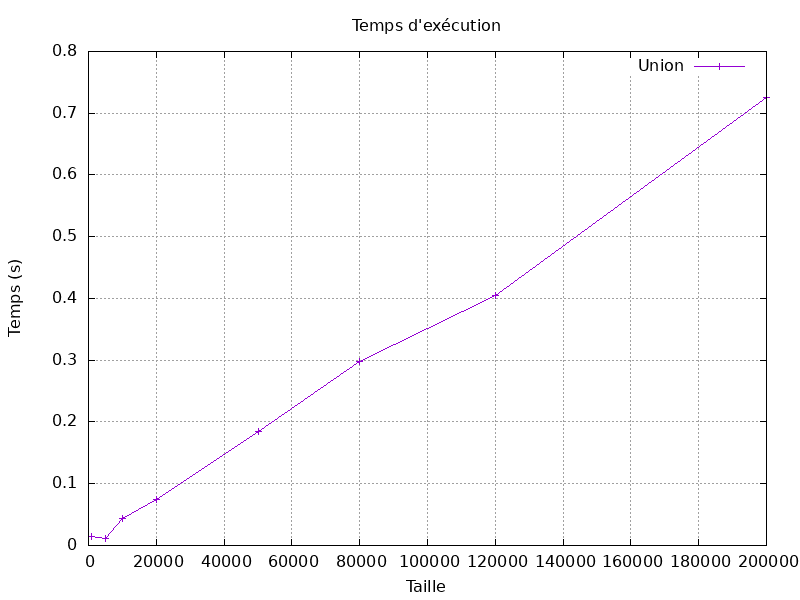
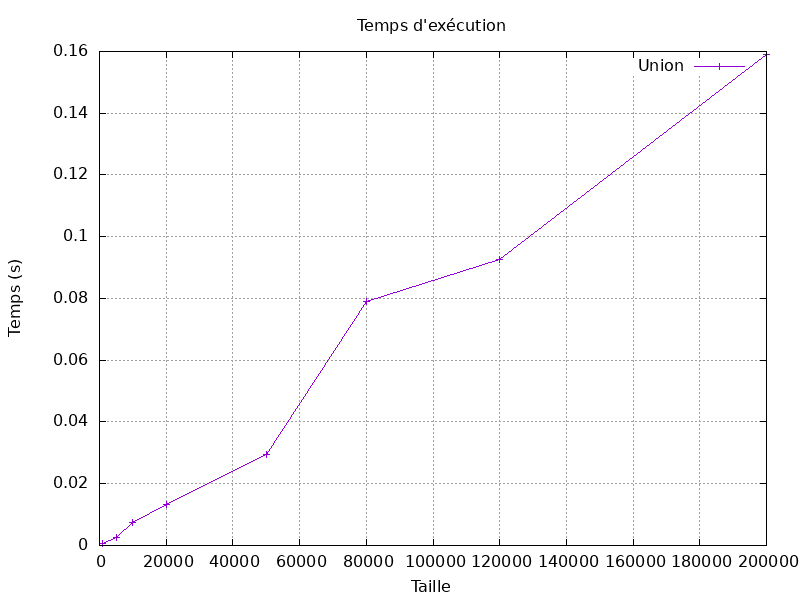
commit_

diff --git a/sources/tasArbre.c b/sources/tasArbre.c
@@ -30,13 +30,10 @@ Clef128* copy(Clef128* clef)
 
 TasArbre* creerNoeud(Clef128* clef)
 {
-    TasArbre* noeud = (TasArbre*)malloc(sizeof(TasArbre));
-    noeud->clef = clef;
-    noeud->fd = NULL;
-    noeud->fg = NULL;
-    noeud->parent = NULL;
-    noeud->hauteur = 1;
-    noeud->noeud = 1;
+    TasArbre* noeud = initialisation();
+    noeud->clef = copy(clef);
+    noeud->hauteur += 1;
+    noeud->noeud += 1;
     return noeud;
 }
 
@@ -218,7 +215,7 @@ void ajoutBis (TasArbre * tas, Clef128* clef, int V)
 }
 */
 
-void ajout (TasArbre * tas, Clef128* clef, int V)
+void ajout (TasArbre * tas, Clef128* clef)
 {
     // ARBRE VIDE
     if(tas->clef == NULL){
@@ -240,10 +237,7 @@ void ajout (TasArbre * tas, Clef128* clef, int V)
         tas->fg->parent = tas;
         majHauteurAjout(tas);
         majNoeudAjout(tas);
-        if(V)
-        {
-            reequilibrageRemontee(tas->fg);
-        }
+        reequilibrageRemontee(tas->fg);
         return;
     }
     else{
@@ -252,10 +246,7 @@ void ajout (TasArbre * tas, Clef128* clef, int V)
             tas->fd = creerNoeud(clef);
             tas->fd->parent = tas;
             majNoeudAjout(tas);
-            if(V)
-            {
-                reequilibrageRemontee(tas->fd);
-            }
+            reequilibrageRemontee(tas->fd);
             return;
         }
     }
@@ -266,29 +257,28 @@ void ajout (TasArbre * tas, Clef128* clef, int V)
         {
             if(tas->fg->hauteur == tas->fd->hauteur) // si les feuilles sont au meme niveau
             {
-                ajout(tas->fg,clef,V);
+                ajout(tas->fg,clef);
             }
             else{
-                ajout(tas->fd,clef,V);
+                ajout(tas->fd,clef);
             }
         }
         else{
-            ajout(tas->fd,clef,V);
+            ajout(tas->fd,clef);
         }
     }
     else{
-        ajout(tas->fg,clef,V);
+        ajout(tas->fg,clef);
     }
 
 }
 
-TasArbre* ajoutsIteratifs(Clef128* clefs[], int len, int V)
+TasArbre* ajoutsIteratifs(Clef128* clefs[], int len)
 {
     TasArbre* tas = initialisation();
     for(int i = 0; i<len; i++)
     {
-        Clef128* newClef = copy(clefs[i]);
-        ajout(tas, newClef, V);
+        ajout(tas, clefs[i]);
     }
     return tas;
 }
@@ -390,39 +380,135 @@ Clef128 supprMin (TasArbre* tas, TasArbre* racine)
     return tmp;
 }
 
+Element* ajoutListe(TasArbre* noeud)
+{
+    Element* elt = (Element*)malloc(sizeof(Element));
+    elt->noeud = noeud;
+    elt->suiv = NULL;
+    return elt;
+}
+
+void deleteListe(Liste* liste)
+{
+    while(liste->tete != NULL)
+    {
+        Element* elt = liste->tete;
+        liste->tete = liste->tete->suiv;
+        free(elt);
+    }
+    free(liste);
+}
+
 TasArbre* construction(Clef128* clefs[], int len)
 {
-    TasArbre* tas = initialisation();
-    for(int i = 0; i<len; i++)
+    Liste* liste = (Liste*)malloc(sizeof(Liste));
+    TasArbre* premier = creerNoeud(clefs[0]);
+    liste->tete = ajoutListe(premier);
+    liste->queue = liste->tete;
+    TasArbre* tas = liste->tete->noeud;
+    for(int i = 1; i<len; i++)
     {
-        Clef128* newClef = copy(clefs[i]);
-        ajout(tas, newClef, 0);
+        if(liste->tete->noeud->fg == NULL)
+        {
+            liste->tete->noeud->fg = creerNoeud(clefs[i]);
+            liste->queue->suiv = ajoutListe(liste->tete->noeud->fg);
+            liste->queue = liste->queue->suiv;
+
+        }else{
+            if(liste->tete->noeud->fd == NULL)
+            {
+                liste->tete->noeud->fd = creerNoeud(clefs[i]);
+                liste->queue->suiv = ajoutListe(liste->tete->noeud->fd);
+                liste->queue = liste->queue->suiv;
+                liste->tete = liste->tete->suiv;
+            }
+        }
     }
     reequilibrage(tas);
     return tas;
 }
 
-void ajoutTasUnion(TasArbre* newTas, TasArbre* tas)
+TasArbre* Union(TasArbre* tas1, TasArbre* tas2)
 {
-    if(tas == NULL)
-    {
-        return;
-    }
-    Clef128* newClef = copy(tas->clef);
-    ajout(newTas, newClef, 0);
-    ajoutTasUnion(newTas, tas->fg);
-    ajoutTasUnion(newTas, tas->fd);
-}
+    Liste* newliste = (Liste*)malloc(sizeof(Liste));
+    TasArbre* premier = creerNoeud(tas1->clef);
+    newliste->tete = ajoutListe(premier);
+    newliste->queue = newliste->tete;
+    TasArbre* tasArenvoie = newliste->tete->noeud;
 
-void Union(TasArbre* tasUnion, TasArbre* tas1, TasArbre* tas2)
-{
-    if(tas1 == NULL || tas2 == NULL)
+    Liste* tasAcopie = (Liste*)malloc(sizeof(Liste));
+    tasAcopie->tete = ajoutListe(tas1);
+    tasAcopie->queue = tasAcopie->tete;
+    while(tasAcopie->tete != NULL)
     {
-        return;
+        if(tasAcopie->tete->noeud->fg)
+        {
+            tasAcopie->queue->suiv = ajoutListe(tasAcopie->tete->noeud->fg);
+            tasAcopie->queue = tasAcopie->queue->suiv;
+        }
+        if(tasAcopie->tete->noeud->fd)
+        {
+            tasAcopie->queue->suiv = ajoutListe(tasAcopie->tete->noeud->fd);
+            tasAcopie->queue = tasAcopie->queue->suiv;
+        }
+
+        tasAcopie->tete = tasAcopie->tete->suiv;
+        if(tasAcopie->tete == NULL)
+        {
+            break;
+        }
+
+        if(newliste->tete->noeud->fg == NULL)
+        {
+            newliste->tete->noeud->fg = creerNoeud(tasAcopie->tete->noeud->clef);
+            newliste->queue->suiv = ajoutListe(newliste->tete->noeud->fg);
+            newliste->queue = newliste->queue->suiv;
+        }else{
+            if(newliste->tete->noeud->fd == NULL)
+            {
+                newliste->tete->noeud->fd = creerNoeud(tasAcopie->tete->noeud->clef);
+                newliste->queue->suiv = ajoutListe(newliste->tete->noeud->fd);
+                newliste->queue = newliste->queue->suiv;
+                newliste->tete = newliste->tete->suiv;
+            }
+        }
     }
-    ajoutTasUnion(tasUnion,tas1);
-    ajoutTasUnion(tasUnion, tas2);
-    reequilibrage(tasUnion);
+
+    Liste* tasAcopie2 = (Liste*)malloc(sizeof(Liste));
+    tasAcopie2->tete = ajoutListe(tas2);
+    tasAcopie2->queue = tasAcopie2->tete;
+    while(tasAcopie2->tete != NULL)
+    {
+        if(tasAcopie2->tete->noeud->fg)
+        {     
+            tasAcopie2->queue->suiv = ajoutListe(tasAcopie2->tete->noeud->fg);
+            tasAcopie2->queue = tasAcopie2->queue->suiv;
+        }
+        if(tasAcopie2->tete->noeud->fd)
+        {
+            tasAcopie2->queue->suiv = ajoutListe(tasAcopie2->tete->noeud->fd);
+            tasAcopie2->queue = tasAcopie2->queue->suiv;
+        }
+    
+        if(newliste->tete->noeud->fg == NULL)
+        {
+            newliste->tete->noeud->fg = creerNoeud(tasAcopie2->tete->noeud->clef);
+            newliste->queue->suiv = ajoutListe(newliste->tete->noeud->fg);
+            newliste->queue = newliste->queue->suiv;
+
+        }else{
+            if(newliste->tete->noeud->fd == NULL)
+            {
+                newliste->tete->noeud->fd = creerNoeud(tasAcopie2->tete->noeud->clef);
+                newliste->queue->suiv = ajoutListe(newliste->tete->noeud->fd);
+                newliste->queue = newliste->queue->suiv;
+                newliste->tete = newliste->tete->suiv;
+            }
+        }
+        tasAcopie2->tete = tasAcopie2->tete->suiv;
+    }
+
+    return tasArenvoie;
 }
 
 void affichageTasArbre(TasArbre* tas) // Parcours prefixe

diff --git a/tests/test_tasArbre.c b/tests/test_tasArbre.c
@@ -50,26 +50,29 @@ int main(int argc, char** argv){
         clefs2[j] = clef;
         j++;
     }
-
+    /*
     // AJOUTS ITERATIFS
-    TasArbre* t1 = ajoutsIteratifs(clefs, 10, 1);
+    TasArbre* t1 = ajoutsIteratifs(clefs, 5);
     printf("-------AJOUTS ITERATIFS--------\n");
     affichageTasArbre(t1);
     
     // SUPPRESSION
-    Clef128 min = supprMin(t1, t1);
+    Clef128* min = supprMin(t1);
     printf("\n");
     printf("------CLEF MINIMUM------\n");
-    affichageClef(&min);
+    affichageClef(min);
+    free(min->clef_hexa);
+    free(min);
     printf("\n");
     printf("-------SUPPRESSION--------\n");
     affichageTasArbre(t1);
     
     // CONSTRUCTION
-    TasArbre* t2 = construction(clefs, 10);
+    TasArbre* t2 = construction(clefs, 5);
     printf("\n");
     printf("-------CONSTRUCTION--------\n");
     affichageTasArbre(t2);
+    */
     
     // UNION
     TasArbre* tas1 = construction(clefs, 5);
@@ -80,8 +83,7 @@ int main(int argc, char** argv){
     printf("\n");
     printf("-------T2--------\n");
     affichageTasArbre(tas2);
-    TasArbre* tasUnion = initialisation();
-    Union(tasUnion, tas1, tas2);
+    TasArbre* tasUnion = Union(tas1, tas2);
     printf("\n");
     printf("-------UNION--------\n");
     affichageTasArbre(tasUnion);
@@ -89,11 +91,11 @@ int main(int argc, char** argv){
     fclose(file);
     fclose(file2);
 
-    delete(t1);
-    delete(t2);
-    delete(tas1);
-    delete(tas2);
-    delete(tasUnion);
+    //delete(t1);
+    //delete(t2);
+    //delete(tas1);
+    //delete(tas2);
+    //delete(tasUnion);
     deleteClefs(clefs, NB_CLEF);
     deleteClefs(clefs2, NB_CLEF);
 

diff --git a/headers/tasArbre.h b/headers/tasArbre.h
@@ -12,23 +12,38 @@ struct tasArbre {
     int noeud; // nombre de noeud present dans l'arbre
 };
 
-Clef128 supprMin (TasArbre* tas, TasArbre* racine);
-void ajout (TasArbre * tas, Clef128* clef, int V); // V = 1 indique si il faut faire la verification des tailles des clés
-TasArbre* ajoutsIteratifs (Clef128* clefs[], int len,int V);
+typedef struct Element Element;
+struct Element {
+    TasArbre* noeud;
+    struct Element* suiv;
+};
+
+typedef struct Liste Liste;
+struct Liste
+{
+    Element* tete;
+    Element* queue;
+};
+
+TasArbre* initialisation();
+Clef128* copy(Clef128* clef);
 TasArbre* creerNoeud(Clef128* clef);
 void echangeClef(Clef128* a, Clef128* b);
-void affichageTasArbre(TasArbre* tas);
 void echangeRacine(TasArbre* tas);
+void reequilibrageRemontee(TasArbre* tas);
+void reequilibrage(TasArbre* tas);
 void majHauteurAjout(TasArbre* tas);
 void majNoeudAjout(TasArbre* tas);
 void majHauteurSuppr(TasArbre* tas);
 void majNoeudSuppr(TasArbre* tas);
+void ajout (TasArbre * tas, Clef128* clef);
+TasArbre* ajoutsIteratifs (Clef128* clefs[], int len);
+Clef128 supprMin (TasArbre* tas, TasArbre* racine);
+Element* ajoutListe(TasArbre* noeud);
+void deleteListe(Liste* liste);
 TasArbre* construction(Clef128* clefs[], int len);
-void Union(TasArbre* tasUnion, TasArbre* tas1, TasArbre* tas2);
-void reequilibrage(TasArbre* tas);
-TasArbre* initialisation();
+TasArbre* Union(TasArbre* tas1, TasArbre* tas2);
+void affichageTasArbre(TasArbre* tas);
 void delete(TasArbre* tas);
-Clef128* copy(Clef128* clef);
-void ajoutTasUnion(TasArbre* newTas, TasArbre* tas);
 
 #endif

diff --git a/tests/test_tempsTasArbreUnion.c b/tests/test_tempsTasArbreUnion.c
@@ -12,8 +12,7 @@ double mesurerTempsUnion(TasArbre* tas1, TasArbre* tas2)
 {
     clock_t debut, fin;
     debut = clock();
-    TasArbre* tasUnion = initialisation();
-    Union(tasUnion, tas1, tas2);
+    TasArbre* tasUnion = Union(tas1, tas2);
     fin = clock();
     delete(tasUnion);
     return (double)(fin - debut) / CLOCKS_PER_SEC;
@@ -92,7 +91,7 @@ int main()
             clefs2[j] = clef;
             j++;
         }
-
+        
         TasArbre* tas1 = construction(clefs, taille);
         TasArbre* tas2 = construction(clefs2, taille);
         double tempsUnion = mesurerTempsUnion(tas1, tas2);
